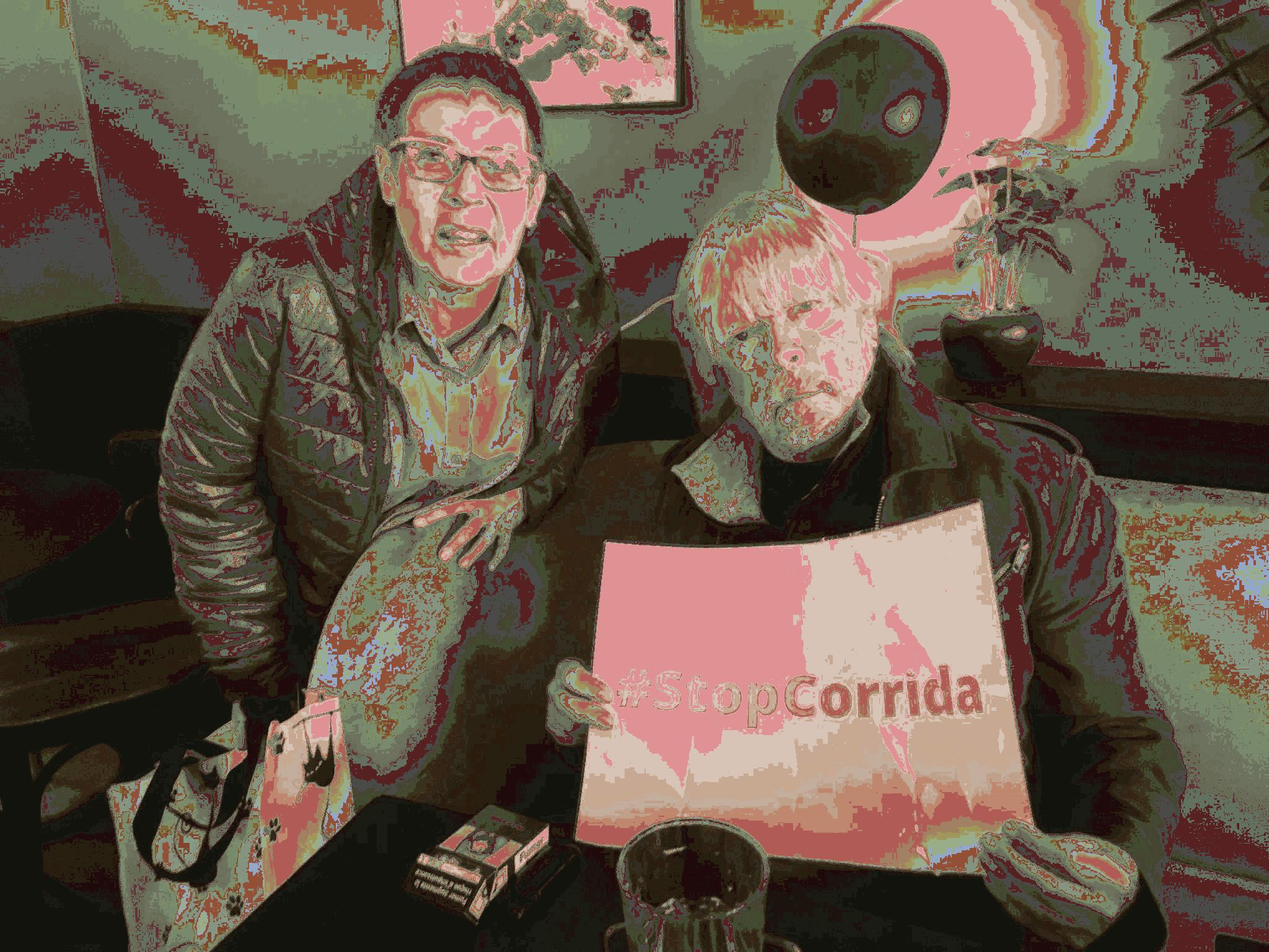
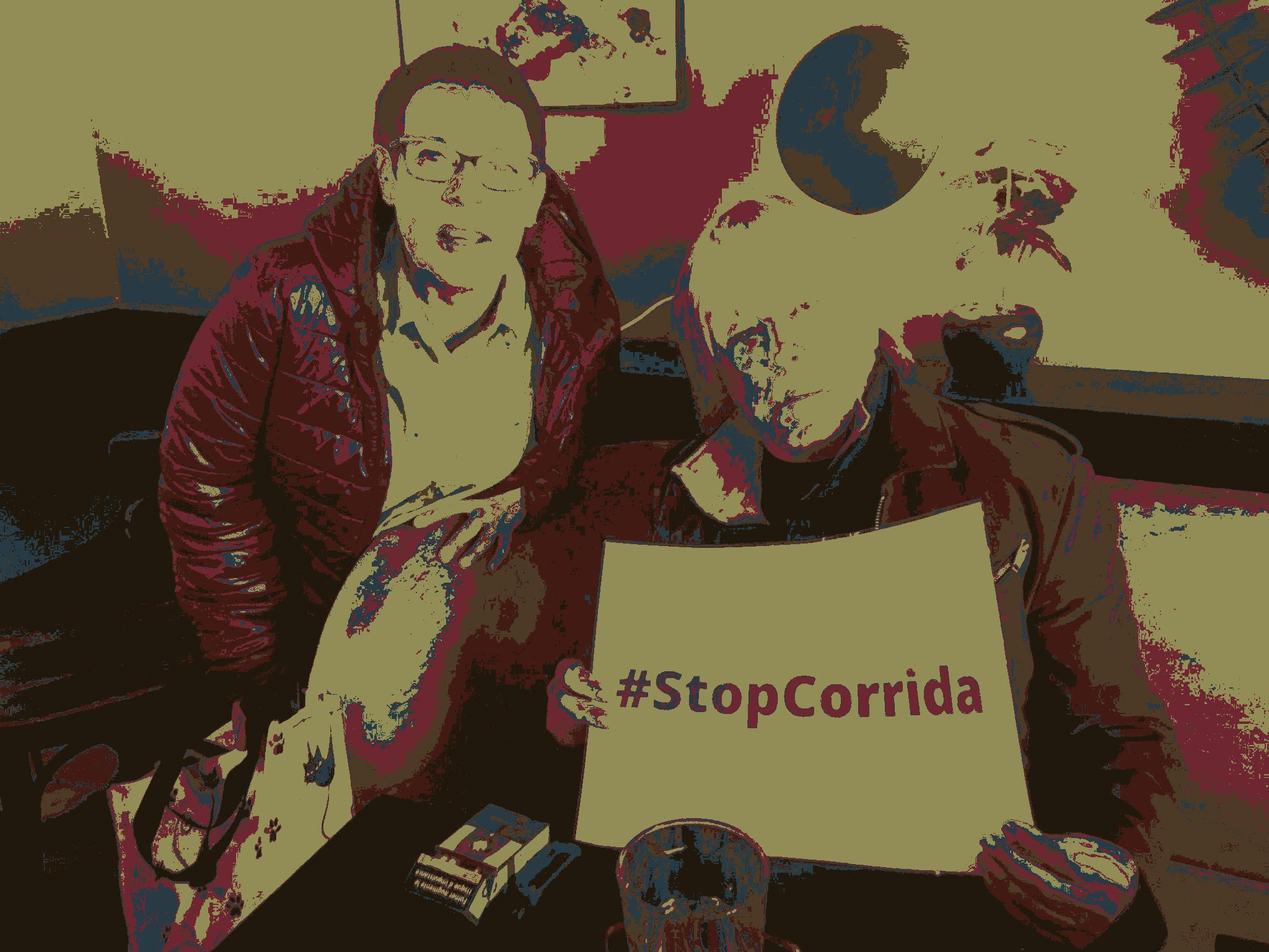
add move centroids

diff --git a/src/KMeans.kt b/src/KMeans.kt
@@ -1,4 +1,5 @@
 import distance.Distance
+import kotlin.collections.ArrayList
 import kotlin.random.Random
 
 class KMeans(val K: Int, val maxIter: Int, val distance: Distance) {
@@ -12,27 +13,26 @@ class KMeans(val K: Int, val maxIter: Int, val distance: Distance) {
 
     private fun findMinimalDistanceInPixel(point: Pixel): Int {
         var index = Int.MAX_VALUE
-        var minDistance = Pixel(Int.MAX_VALUE, Int.MAX_VALUE, Int.MAX_VALUE)
-        for (i in 0 until centroids.size) {
+        var minDistance = Int.MAX_VALUE
+        for (i in centroids.indices) {
             val distR = distance.calculateDistance(point.R, centroids[i].R)
             val distG = distance.calculateDistance(point.G, centroids[i].G)
             val distB = distance.calculateDistance(point.B, centroids[i].B)
             val distTotal = distR + distB + distG
-            if (distTotal < minDistance.sum()) {
+            if (distTotal < minDistance) {
                 index = i
-                minDistance = centroids[i]
+                minDistance = distTotal
             }
         }
         return index
     }
 
     private fun movePixel(points: Array<Pixel>): Array<Pixel> {
-        val newPoints = points
         for (i in points.indices) {
             val centroidIndex = findMinimalDistanceInPixel(points[i])
-            newPoints[i] = centroids[centroidIndex]
+            points[i] = centroids[centroidIndex]
         }
-        return newPoints
+        return points
     }
 
     fun execute(points: Array<Pixel>): Array<Pixel> {
@@ -40,14 +40,28 @@ class KMeans(val K: Int, val maxIter: Int, val distance: Distance) {
         initializeCentroids(points)
         for (i in 0 until maxIter) {
             println("iteration num $i")
-            centroids = moveCentroids(points)
             newPoints = movePixel(points)
+            centroids = moveCentroids(points)
         }
         return newPoints
     }
 
     private fun moveCentroids(points: Array<Pixel>): ArrayList<Pixel> {
+        val newCentroid: Array<Pixel> = Array(K) { Pixel(0, 0, 0) }
+        val nbCentroid: Array<Int> = Array(K) { 0 }
 
-        return ArrayList();
+        for (i in points.indices) {
+            for (j in 0 until 6) {
+                if (centroids[j].isPixelEquals(points[i])) {
+                    newCentroid[j].add(points[i])
+                    nbCentroid[j]++
+                }
+            }
+        }
+
+        for (i in newCentroid.indices) {
+            newCentroid[i].multiply(1.0 / nbCentroid[i])
+        }
+        return newCentroid.toCollection(ArrayList<Pixel>())
     }
 }

diff --git a/src/main.kt b/src/main.kt
@@ -1,5 +1,6 @@
 import distance.EucledianDistance
 import distance.RandomDistance
+import java.awt.Color
 import java.awt.image.BufferedImage
 import java.io.File
 import javax.imageio.ImageIO
@@ -9,22 +10,22 @@ fun main() {
 
     val w = originalImage.width
     val h = originalImage.height
-    val points:Array<Int> = IntArray(w * h) { 0 }.toTypedArray()
+    val points:Array<Pixel> = Array(w * h) {Pixel(0,0,0)}
     var count = 0
     for (i in 0 until w) {
         for (j in 0 until h) {
-            points[count] = originalImage.getRGB(i, j)
+            points[count].add(Color(originalImage.getRGB(i, j)))
             count++
         }
     }
     val algo = KMeans(40, 10, EucledianDistance())
-    val newPoints = algo.execute(points)
     println("C'est partit pour l'algo ....")
+    val newPoints = algo.execute(points)
     val kmeansImage =  BufferedImage(w, h, originalImage.type)
     count = 0
     for (i in 0 until w) {
         for (j in 0 until h) {
-            kmeansImage.setRGB(i, j, newPoints[count++])
+            kmeansImage.setRGB(i, j, newPoints[count++].getRGB())
         }
     }
     println("Printing Image.....")

diff --git a/src/Pixel.kt b/src/Pixel.kt
@@ -1,8 +1,36 @@
 import java.awt.Color
 
-class Pixel(val R : Int,val G:Int,val B:Int) {
-   constructor(color: Color) : this(color.red,color.green,color.blue)
-   public fun sum() : Int{
-      return R+G+B
-   }
+class Pixel(var R: Int, var G: Int, var B: Int) {
+    constructor(color: Color) : this(color.red, color.green, color.blue)
+
+    fun sum(): Int {
+        return R + G + B
+    }
+
+    fun add(px: Pixel) {
+        this.R += px.R
+        this.G += px.G
+        this.B += px.B
+    }
+    fun add(col: Color) {
+        this.R += col.red
+        this.G += col.green
+        this.B += col.blue
+    }
+    fun multiply(coef: Double){
+        this.R= (coef *this.R).toInt()
+        this.G = (coef * this.G).toInt()
+        this.B = (coef * this.B).toInt()
+    }
+    public fun isPixelEquals(px: Pixel) : Boolean{
+        return this.R == px.R && this.B == px.B && this.G == px.G
+    }
+
+    fun getRGB() : Int{
+        return Color(R,G,B).rgb
+    }
+
+    override fun toString(): String {
+        return "Color : red = $R, green = $G, blue = $B  " +super.toString()
+    }
 }
